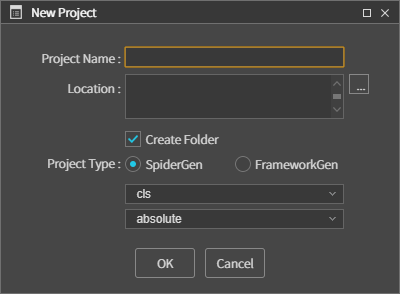
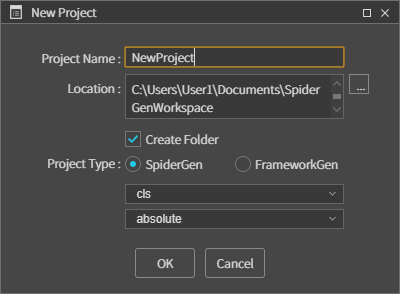
index.md update

Changed region(s): [[0.33, 0.2755, 0.81, 0.398], [0.33, 0.1837, 0.51, 0.2143], [0.06, 0.0306, 0.24, 0.0612]]

diff --git a/start/mobile/index.md b/start/mobile/index.md
@@ -19,7 +19,7 @@
 
 ![Alt text](./image/NewProject.png)
 
-이 후 Project Name, Location, Project Type을 원하는대로 수정하고 프로젝트를 생성한다.
+이 후 Project Name에 NewProject 혹은 원하는 이름을 입력하고 프로젝트를 생성한다. 단, 특수문자는 사용할 수 없다.
 
 ![Alt text](./image/NewProjectDlg.png)
 
@@ -43,7 +43,7 @@
 
 ### 2.2.1 컴포넌트 추가하기
 
-MainView.lay를 열어보면 빈 페이지가 보인다.
+MainView.lay를 열어보면 비어있는 흰색 배경의 뷰가 보인다. 이 위치가 작업 뷰이다.
 
 우측 하단의 Component 에는 스파이더젠에서 사용할 수 있는 각종 컴포넌트들이 모여 있다.
 
@@ -51,23 +51,27 @@ MainView.lay를 열어보면 빈 페이지가 보인다.
 
 ![Alt text](./image/Component.png)
 
-Label을 더블클릭 하거나 드래그하여 lay파일의 캔버스에 올려놓으면 새 라벨이 생성되어 캔버스상에 Label이라는 글자가 보인다.
+Label을 더블클릭 하거나 드래그하여 작업 뷰에 올려놓으면 새 라벨이 생성되어 작업 뷰 상에 Label이라는 글자가 보인다.
 
 우측의 Attribute를 선택하여 라벨의 속성을 볼 수 있다.
 
 만약 Attribute가 보이지 않는다면 마찬가지로 상단 메뉴 중 View > Attribute(Ctrl + 6)를 선택하면 찾을 수 있다.
 
-Attribute > Data > Text 를 Hello World로 바꿔본다.
-
 ![Alt text](./image/HelloWorld.png)
 
-캔버스의 라벨이 Hello World라고 변경되었는지 확인해보도록 하자.
+Attribute > Data > Text 를 Hello World로 바꿔본다.
+
+![Alt text](./image/F2edit.png)
+
+라벨을 클릭 한 상태에서 F2를 눌러서 작업 뷰 상에서 바로 수정 할 수도 있다.
+
+작업 뷰의 라벨이 Hello World라고 변경되었는지 확인해보도록 하자.
 
 ### 2.2.2 이벤트 만들기
 
 이번에는 오픈되어있는 MainView.lay파일에서 Button을 추가해본다.
 
-Label과 똑같이 Component에서 Button을 더블클릭 하거나 드래그하여 캔버스로 올리면 생성된다.
+Label과 똑같이 Component에서 Button을 더블클릭 하거나 드래그하여 작업 뷰로 올리면 생성된다.
 
 ![Alt text](./image/NewButton.png)
 
